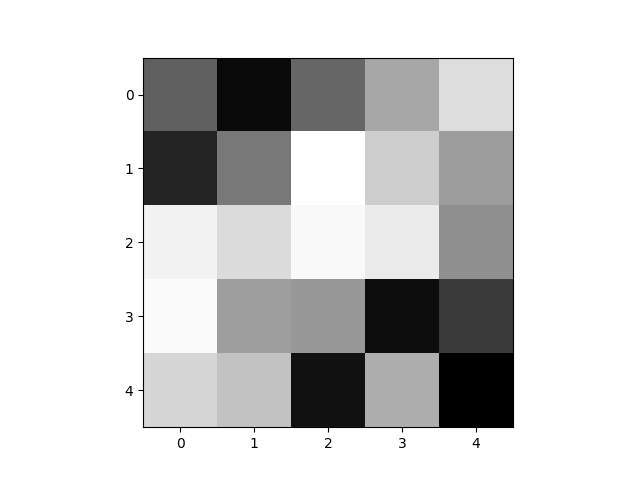
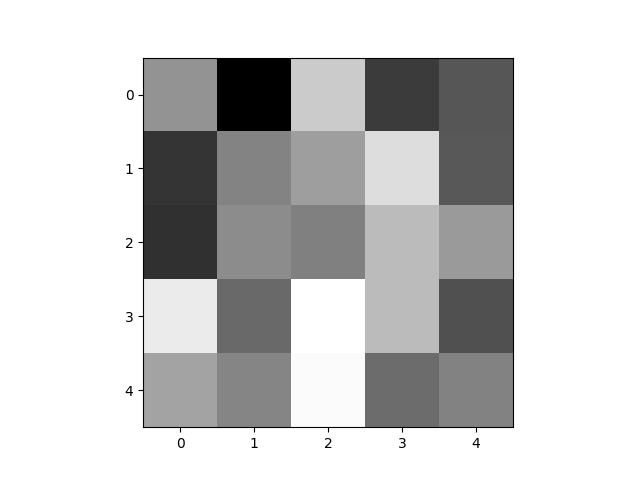
done

diff --git a/train.py b/train.py
@@ -9,18 +9,18 @@ import analyze
 
 
 def train(mode="normal"):
-    num_epochs = 2
+    num_epochs = 3
     num_classes = 10
     learning_rate = 0.001
     trans = transforms.Compose([transforms.ToTensor(), transforms.Normalize((0.1307,), (0.3081,))])
     train_dataset = torchvision.datasets.MNIST(root=constants.DATA_PATH, train=True, transform=trans, download=True)
-    train_loader = DataLoader(dataset=train_dataset, batch_size=constants.batch_size, shuffle=True)
+    train_loader = DataLoader(dataset=train_dataset, batch_size=constants.batch_size)
 
     device = torch.device("cuda" if torch.cuda.is_available() else "cpu")
 
     model = MyConvNet()
     if mode != "normal":
-        filters = model.layer1[0].weight.data
+        filters = model.conv.weight.data
         r = torch.rand(5, 5)
         filters[0, 0] = r
         filters[1, 0] = r
@@ -48,6 +48,8 @@ def train(mode="normal"):
             images = images.to(device)
             labels = labels.to(device)
             outputs = model(images)
+            if i==0:
+                analyze.plot_fms(model, mode, epoch)
             loss = criterion(outputs, labels)
             loss_list.append(loss.item())
             optimizer.zero_grad()
@@ -58,17 +60,6 @@ def train(mode="normal"):
             correct = (predicted == labels).sum().item()
             acc_list.append(correct / total)
 
-            # if (i + 1) % 100 == 0:
-            #     print(
-            #         "Epoch [{}/{}], Step [{}/{}], Loss: {:.4f}, Accuracy: {:.2f}%"\
-            #             .format(
-            #                 epoch + 1,
-            #                 num_epochs, i + 1,
-            #                 total_step,
-            #                 loss.item(),
-            #                 (correct / total) * 100
-            #             )
-            #     )
     torch.save(model, constants.DEFAULT_MODEL_PATH)
     analyze.analyze(model, mode, "after")
     return model

diff --git a/analyze.py b/analyze.py
@@ -5,10 +5,7 @@ import torch.nn.functional as F
 
 
 def plot_tensor(tensor,folder, filename):
-    mean = torch.mean(tensor)
     tensor = tensor.data.clone()
-    # tensor[tensor >= mean] = 255
-    # tensor[tensor < mean] = 0
     plt.imshow(tensor.cpu().numpy(), cmap="gray")
     plt.savefig(f"{folder}/{filename}")
 
@@ -20,24 +17,17 @@ def plot_filters(filters, folder, prefix):
         plot_tensor(tensor, folder,f"{prefix}_{index}.png")
 
 
-def train(model, data):
-    NUM_EPOCHS = 1000
-    model.train()
-    optimizer = torch.optim.Adam(model.parameters(), lr=1e-3, weight_decay=1e-5)
-
-    for epoch  in range(0, NUM_EPOCHS):
-        optimizer.zero_grad()
-        y_pred = model(data)
-        loss = F.nll_loss(y_pred, torch.tensor([0]))
-        loss.backward()
-        optimizer.step()
-        #print(f'Epoch:{epoch + 1}, Loss:{loss.item():.4f}')
-    return model
-
-
 def analyze(model,folder,prefix):
-    filters = model.layer1[0].weight.data
+    filters = model.conv.weight.data
     plot_filters(filters,folder,prefix)
+
+
+def plot_fms(model, folder, epoch):
+    fms = model.current_fms[0,0:3]
+    for index, i in enumerate(fms):
+        tensor = i.data.clone()
+        plt.imshow(tensor.cpu().numpy(), cmap="gray")
+        plt.savefig(f"{folder}/{epoch}_{index}.png")
 
 
 

diff --git a/my_conv_net.py b/my_conv_net.py
@@ -7,16 +7,22 @@ class MyConvNet(nn.Module):
     def __init__(self):
         super(MyConvNet, self).__init__()
 
-        self.layer1 = nn.Sequential(
-            nn.Conv2d(1, 8, kernel_size=5, bias=False),
-            nn.ReLU(),
-            nn.AvgPool2d(kernel_size=4)
-        )
+        self.conv = nn.Conv2d(1, 8, kernel_size=5, bias=False)
+        self.relu = nn.ReLU()
+        self.avg = nn.AvgPool2d(kernel_size=4)
 
         self.fc1 = nn.Linear(288, 10)
 
+        self.current_fms = None
+
     def forward(self, x):
-        out = self.layer1(x)
+        out = self.conv(x)
+        self.current_fms = out
+
+        out = self.relu(out)
+        out= self.avg(out)
+
         out = torch.flatten(out, start_dim=1)
         out = self.fc1(out)
+
         return out
